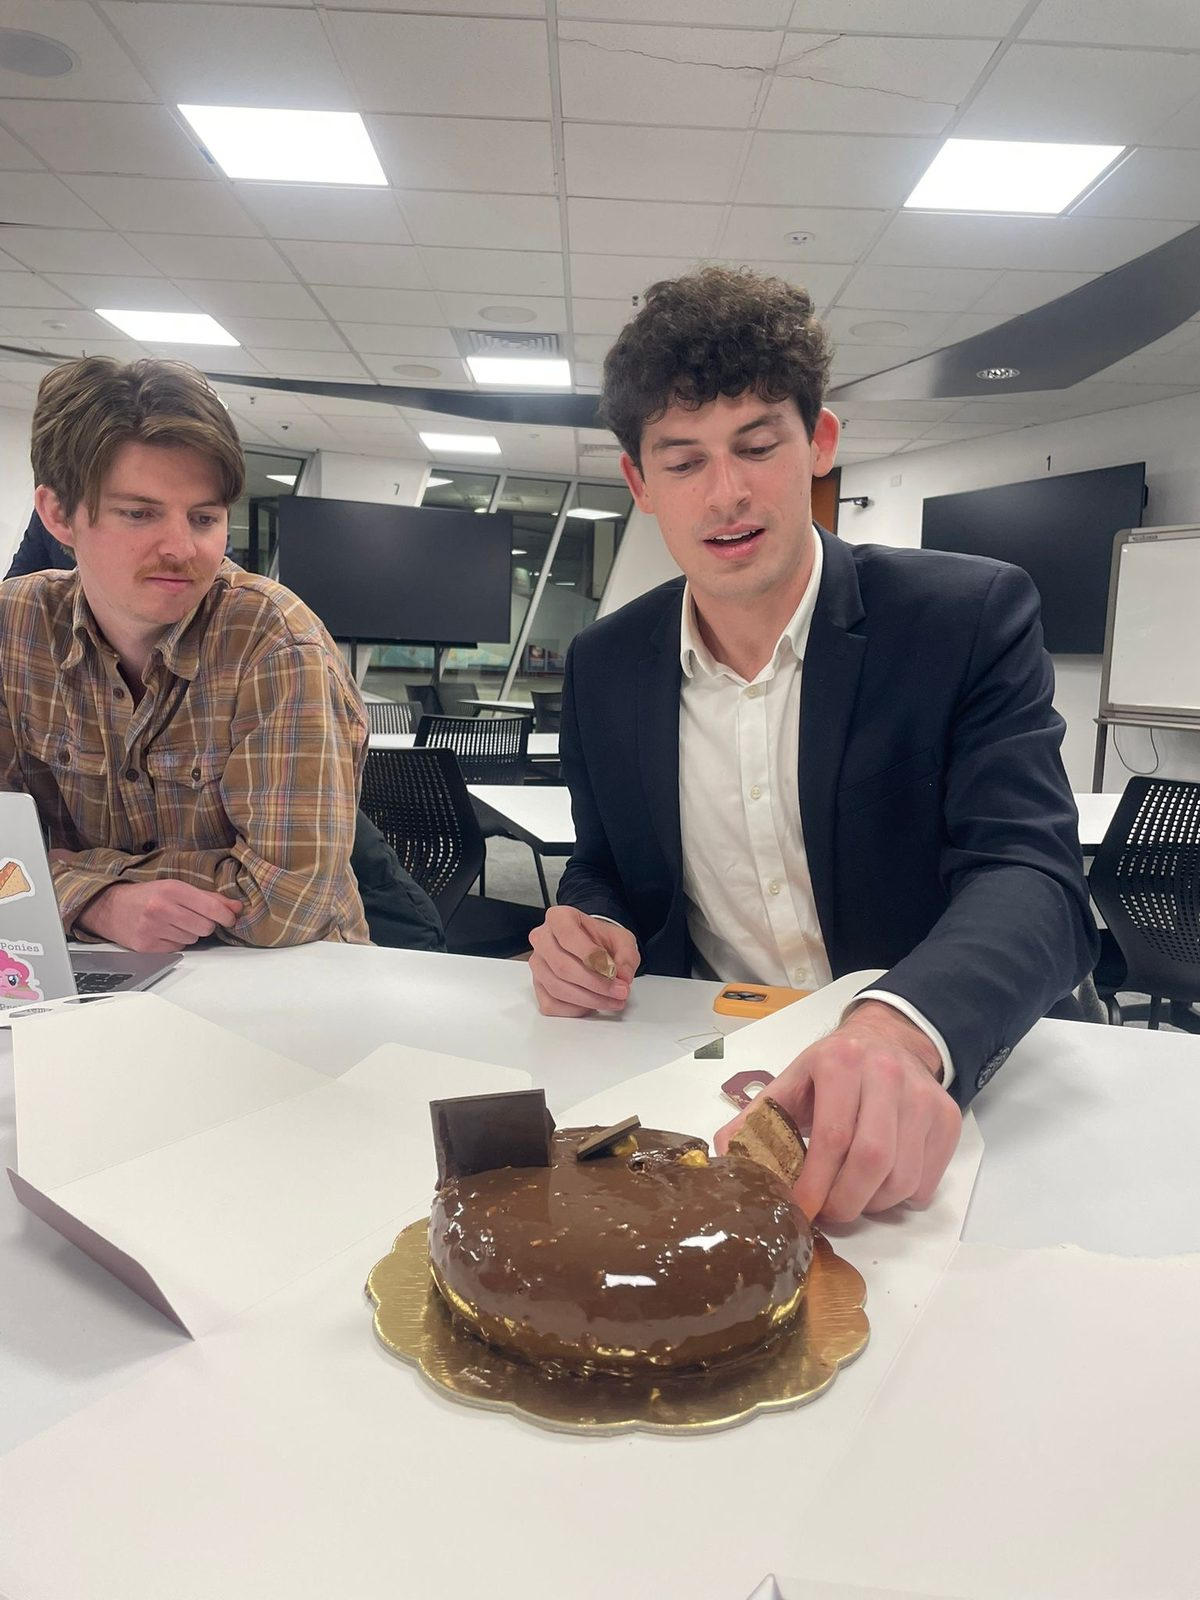
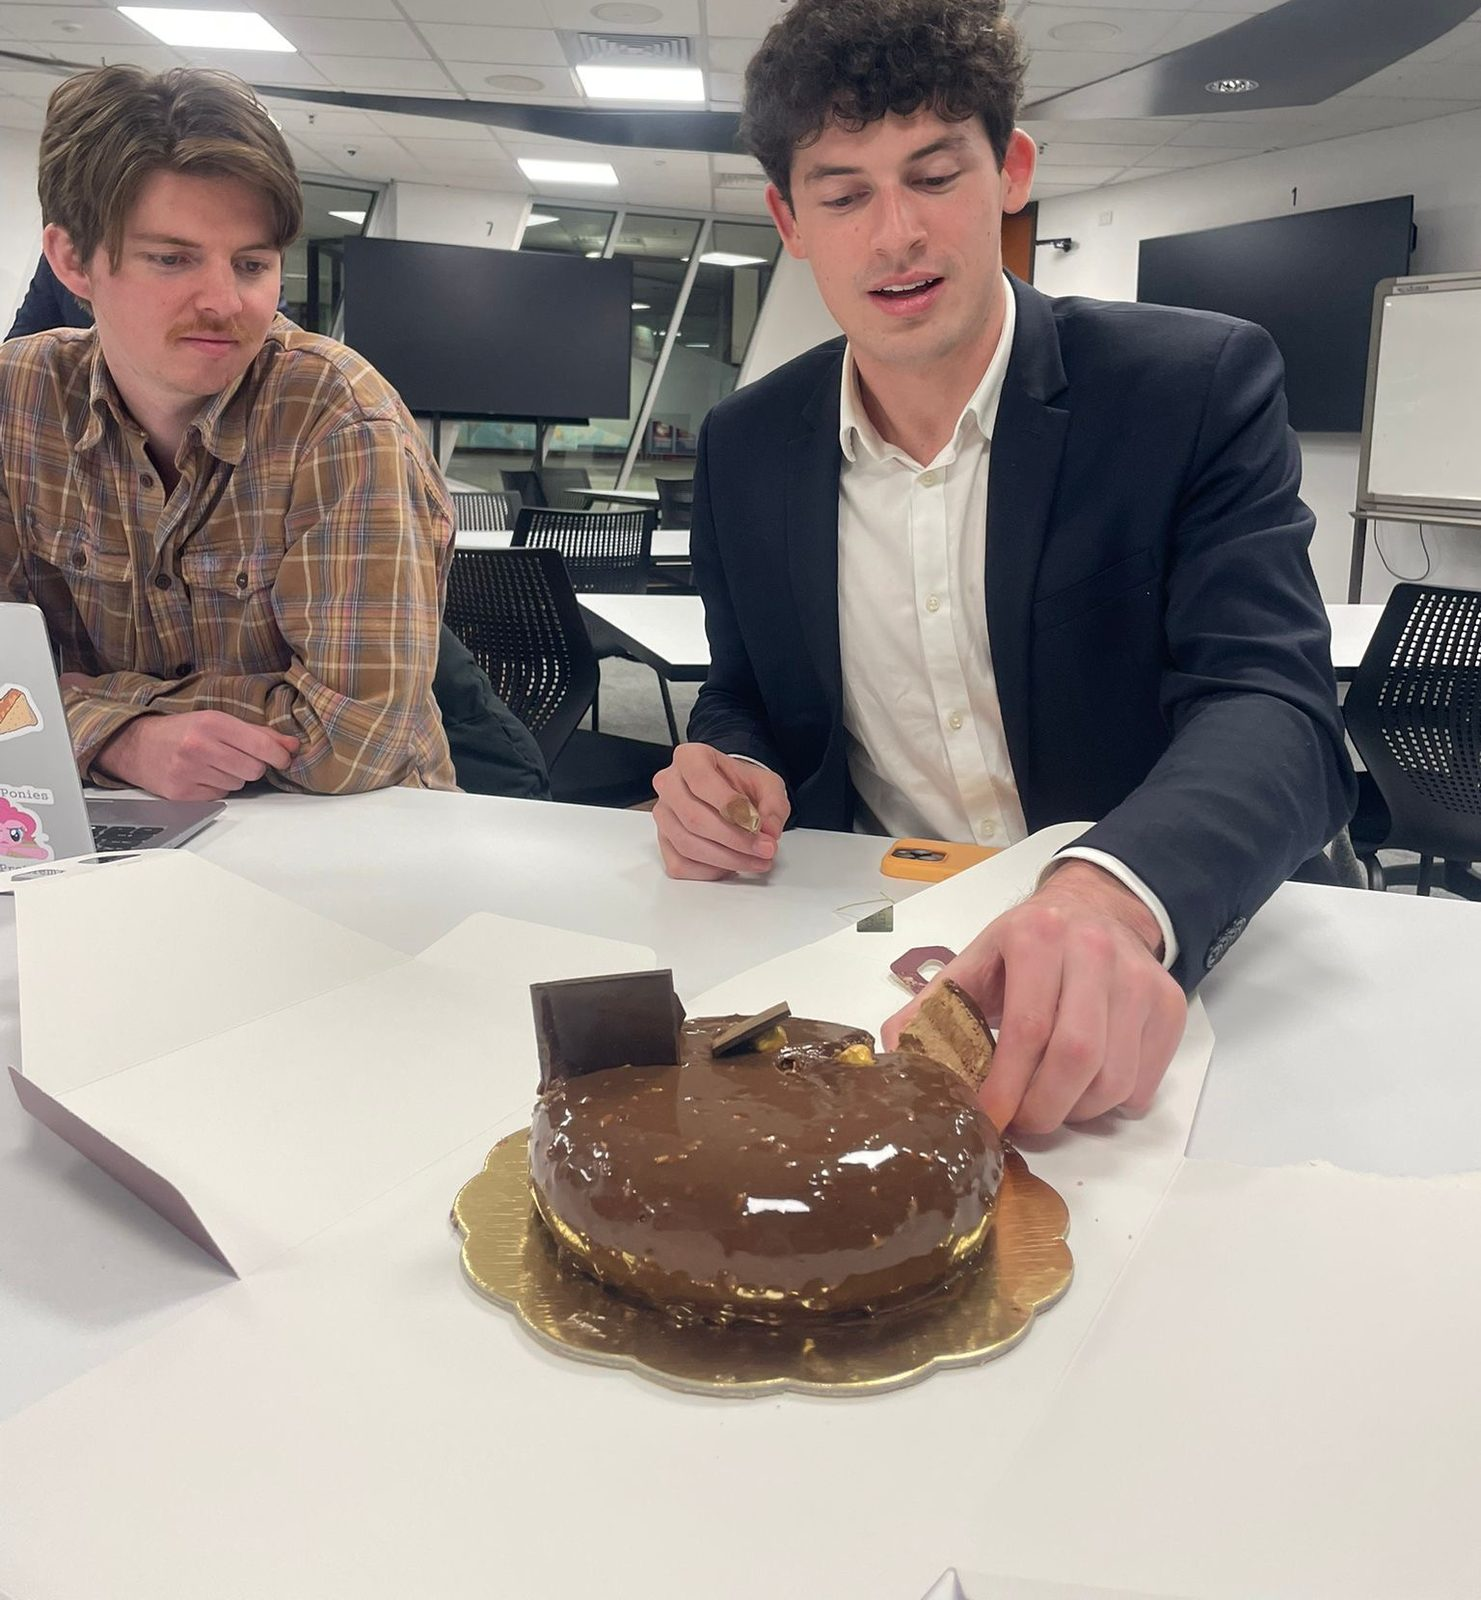
About feature photo: crop top (remove ceiling lights, ~19%), round corners more (20px)

diff --git a/index.html b/index.html
@@ -356,7 +356,7 @@ button { font-family: inherit; cursor: pointer; border: none; background: none; 
 .cap-head { display: grid; grid-template-columns: 1fr 1fr; gap: var(--space-7); align-items: start; margin-bottom: var(--space-8); }
 .cap-head-text { max-width: 38rem; }
 .cap-head-photo { display: flex; flex-direction: column; gap: var(--space-3); margin-top: var(--space-6); }
-.cap-img { aspect-ratio: auto; height: 460px; border: 0; background: transparent; border-radius: 14px;
+.cap-img { aspect-ratio: auto; height: 460px; border: 0; background: transparent; border-radius: 20px;
   -webkit-mask-image: linear-gradient(to right, transparent, #000 7%, #000 93%, transparent), linear-gradient(to bottom, transparent, #000 7%, #000 93%, transparent);
   -webkit-mask-composite: source-in;
   mask-image: linear-gradient(to right, transparent, #000 7%, #000 93%, transparent), linear-gradient(to bottom, transparent, #000 7%, #000 93%, transparent);
